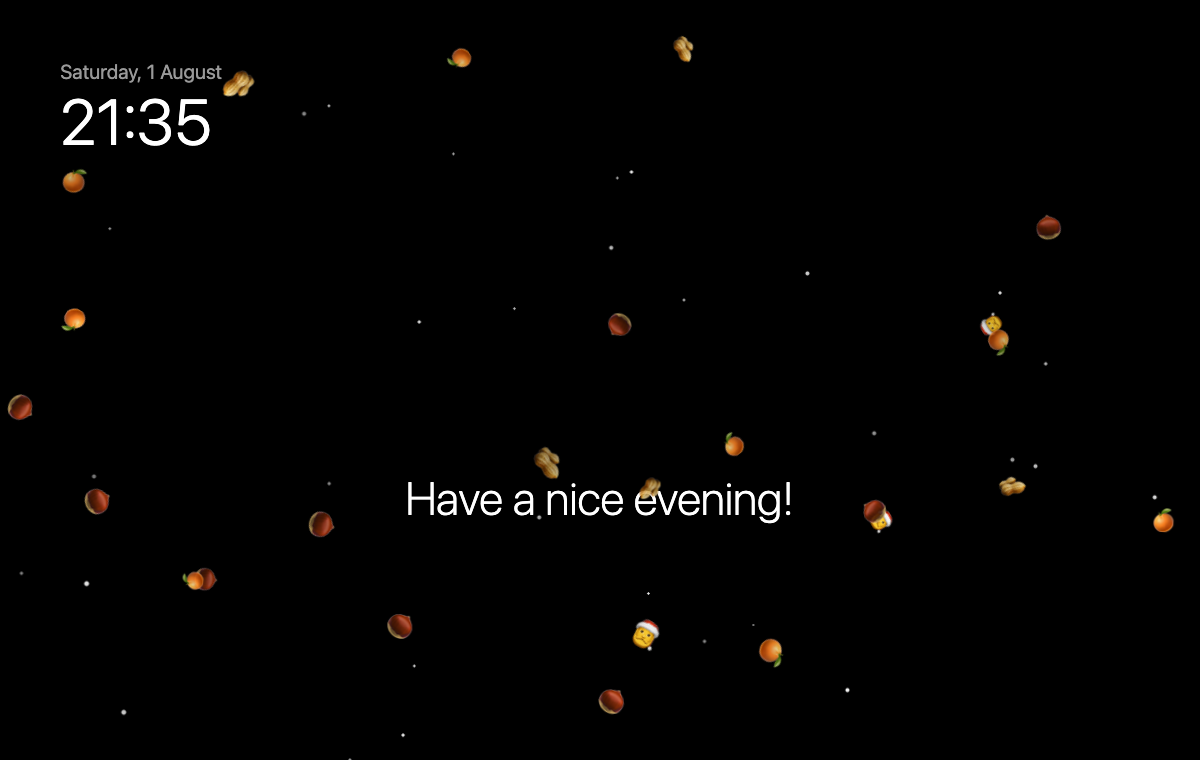
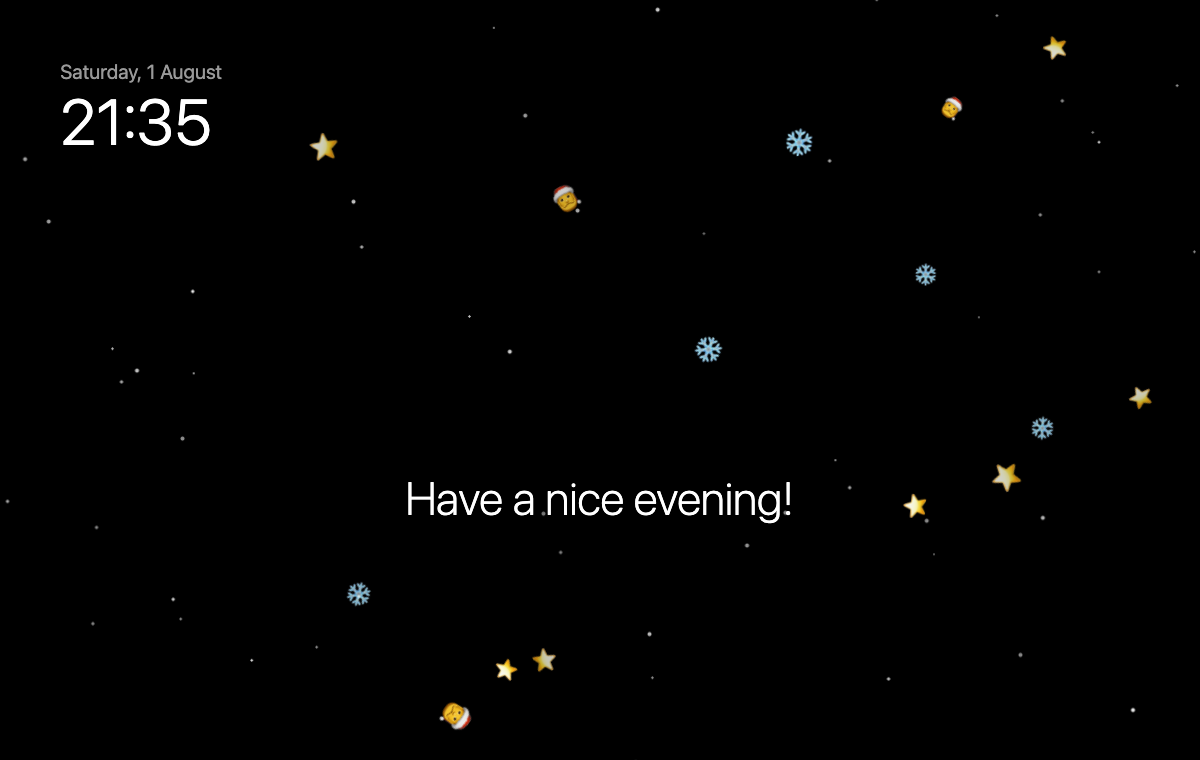
Samichlaus: hats instead of nuts
Red bishop's hats (mitres) with gold bands, a cross and ribbons rock
gently while they fall, with denser snow. New effect "mitres" for own
occasions; emoji style shows Samichlaus, snowflakes and stars.

diff --git a/effects.js b/effects.js
@@ -21,6 +21,7 @@
 		petals: { size: [12, 20], speed: [30, 65], colors: ["#ffc2d1", "#ffe5ec"] },
 		nuts: { size: [18, 26], speed: [45, 90], colors: ["#c58b4c", "#f39c3c", "#a66a33"] },
 		crowns: { size: [24, 36], speed: [35, 70], colors: ["#f2c94c"] },
+		mitres: { size: [34, 48], speed: [30, 55], colors: ["#c8102e", "#d42a2a", "#b5122b"] },
 		stars: { size: [10, 18], speed: [25, 55], colors: ["#fff1b8", "#ffd76a"] },
 		emoji: { size: [26, 42], speed: [35, 75] }
 	};
@@ -154,6 +155,41 @@
 			ctx.lineTo(0, s * 0.44);
 			ctx.stroke();
 		},
+		mitres(ctx, s, color) {
+			// Samichlaus' bishop's hat: tall and pointed, red with gold bands, a gold cross and two ribbons
+			const w = s * 0.3;
+			const top = -s * 0.5;
+			const base = s * 0.3;
+			const gold = "#f2c94c";
+			// ribbons hanging down at the back
+			ctx.fillStyle = color;
+			ctx.fillRect(-w * 0.75, base, w * 0.4, s * 0.2);
+			ctx.fillRect(w * 0.35, base, w * 0.4, s * 0.2);
+			ctx.fillStyle = gold;
+			ctx.fillRect(-w * 0.75, base + s * 0.16, w * 0.4, s * 0.04);
+			ctx.fillRect(w * 0.35, base + s * 0.16, w * 0.4, s * 0.04);
+			ctx.beginPath();
+			ctx.moveTo(-w, base);
+			ctx.lineTo(-w, -s * 0.05);
+			ctx.quadraticCurveTo(-w * 0.95, -s * 0.38, 0, top);
+			ctx.quadraticCurveTo(w * 0.95, -s * 0.38, w, -s * 0.05);
+			ctx.lineTo(w, base);
+			ctx.closePath();
+			ctx.fillStyle = color;
+			ctx.fill();
+			ctx.save();
+			ctx.clip();
+			ctx.fillStyle = gold;
+			ctx.fillRect(-w, base - s * 0.1, w * 2, s * 0.1);
+			ctx.fillRect(-s * 0.035, top, s * 0.07, base - top);
+			ctx.restore();
+			// cross on the front
+			const cy = -s * 0.14;
+			const a = s * 0.11;
+			ctx.fillStyle = gold;
+			ctx.fillRect(-a, cy - s * 0.03, a * 2, s * 0.06);
+			ctx.fillRect(-s * 0.03, cy - a, s * 0.06, a * 2);
+		},
 		crowns(ctx, s, color) {
 			ctx.fillStyle = color;
 			ctx.beginPath();
@@ -208,6 +244,9 @@
 			this.size = def.size.map((v) => v * (o.size || 1));
 			this.speed = def.speed.map((v) => v * (o.speed || 1));
 			this.spin = this.kind === "snow" || this.kind === "confetti" ? 0 : this.kind === "emoji" ? 0.6 : 1.4;
+			// hats only rock gently, they don't tumble
+			this.rock = this.kind === "mitres";
+			if (this.rock) this.spin = 0;
 			this.parts = Array.from({ length: o.count }, () => this.spawn(true));
 		}
 		spawn(anywhere) {
@@ -240,7 +279,8 @@
 					continue;
 				}
 				ctx.globalAlpha = p.alpha;
-				if (p.vr) {
+				if (this.rock) p.rot = Math.sin(t * 0.0013 + p.phase) * 0.3;
+				if (p.vr || this.rock) {
 					ctx.save();
 					ctx.translate(x, p.y);
 					ctx.rotate(p.rot);
@@ -491,7 +531,7 @@
 				if (occ.webs && occ.style !== "emoji") this.layers.push(new Webs(occ, this.env));
 				if (occ.shape === "bats" && occ.style !== "emoji") this.layers.push(new Bats(occ, this.env));
 				else this.layers.push(new Drift(occ, this.env));
-				if (occ.snow) this.layers.push(new Drift({ shape: "snow", motion: "fall", count: Math.round(occ.count * 1.2), style: "graphics" }, this.env));
+				if (occ.snow) this.layers.push(new Drift({ shape: "snow", motion: "fall", count: Math.max(50, Math.round(occ.count * 1.2)), style: "graphics" }, this.env));
 				if (occ.lights) this.layers.push(new Lights(occ, this.env));
 				if (occ.candles) this.layers.push(new Candles(occ, this.env));
 				if (occ.fireworks) this.layers.push(new Fireworks(occ, this.env));

diff --git a/occasions.js b/occasions.js
@@ -14,7 +14,7 @@
 
 	// Order = priority: the first active occasion is shown.
 	const BUILTIN = {
-		samichlaus: { from: "12-06", shape: "nuts", motion: "fall", count: 26, emojis: ["🎅", "🍊", "🥜", "🌰"], snow: true },
+		samichlaus: { from: "12-06", shape: "mitres", motion: "fall", count: 16, emojis: ["🎅", "❄", "⭐"], snow: true },
 		threekings: { from: "01-06", shape: "crowns", motion: "fall", count: 22, emojis: ["👑", "⭐", "✨"], colors: ["#f2c94c", "#e8b33a", "#fff1b8"] },
 		christmas: { from: "12-24", until: "12-26", shape: "snow", motion: "fall", count: 80, emojis: ["🎄", "⭐", "❄", "🎁"], lights: true },
 		newyear: { from: "12-31", until: "01-02", shape: "sparkles", motion: "fall", count: 60, emojis: ["🎆", "🎉", "🥂", "✨"], colors: ["#ffd76a", "#fff4c2", "#f6c343"], fireworks: true, fireworksHours: null },

diff --git a/README.md b/README.md
@@ -1,6 +1,6 @@
 # MMM-SwissOverlay
 
-Swiss holidays and seasons as a quiet full-screen overlay for [MagicMirror²](https://magicmirror.builders/): Swiss flags and fireworks on 1 August, Räppli at Fasnacht, nuts and mandarins for Samichlaus, Advent candles, and more. The dates move with the calendar (Easter, Fasnacht, Advent, Mother's Day are calculated every year), and **everything is configurable**: switch occasions off, change their dates, add your own (birthdays, anniversaries, your village's events).
+Swiss holidays and seasons as a quiet full-screen overlay for [MagicMirror²](https://magicmirror.builders/): Swiss flags and fireworks on 1 August, Räppli at Fasnacht, Samichlaus hats on 6 December, Advent candles, and more. The dates move with the calendar (Easter, Fasnacht, Advent, Mother's Day are calculated every year), and **everything is configurable**: switch occasions off, change their dates, add your own (birthdays, anniversaries, your village's events).
 
 It sits in `fullscreen_above`, never blocks clicks or touches, and runs no animation at all on days without an occasion.
 
@@ -8,7 +8,7 @@ It sits in `fullscreen_above`, never blocks clicks or touches, and runs no anima
 | :---: | :---: | :---: |
 | ![1 August](screenshots/bundesfeier.png) | ![Advent](screenshots/advent.png) | ![Halloween](screenshots/halloween.png) |
 | **Samichlaus (emoji style)** | **Fasnacht** | **Easter** |
-| ![Samichlaus](screenshots/samichlaus-emoji.png) | ![Fasnacht](screenshots/fasnacht.png) | ![Easter](screenshots/easter.png) |
+| ![Samichlaus](screenshots/samichlaus.png) | ![Fasnacht](screenshots/fasnacht.png) | ![Easter](screenshots/easter.png) |
 
 ## Occasions
 
@@ -21,7 +21,7 @@ It sits in `fullscreen_above`, never blocks clicks or touches, and runs no anima
 | Mother's Day | `mothersday` | 2nd Sunday in May | flower petals | |
 | Halloween | `halloween` | 24 … 31 October | bats | spider webs |
 | Advent | `advent` | 1st Advent … 23 December | snow | 1–4 candles, one per Advent Sunday |
-| Samichlaus | `samichlaus` | 6 December | nuts and mandarins | snow |
+| Samichlaus | `samichlaus` | 6 December | Samichlaus hats (mitres) | snow |
 | Christmas | `christmas` | 24 … 26 December | snow | string of lights |
 | New Year's Eve, New Year, Berchtoldstag | `newyear` | 31 December … 2 January | golden sparkles | fireworks |
 | Epiphany | `threekings` | 6 January | crowns | |
@@ -107,7 +107,7 @@ custom: [
 ]
 ```
 
-`effect` is one of `snow`, `confetti`, `sparkles`, `stars`, `flags`, `hearts`, `eggs`, `petals`, `nuts`, `crowns`; `direction: "up"` lets particles rise. Add `fireworks: true` for fireworks.
+`effect` is one of `snow`, `confetti`, `sparkles`, `stars`, `flags`, `hearts`, `eggs`, `petals`, `nuts`, `crowns`, `mitres`; `direction: "up"` lets particles rise. Add `fireworks: true` for fireworks.
 
 ### Writing dates
 

diff --git a/CHANGELOG.md b/CHANGELOG.md
@@ -2,6 +2,7 @@
 
 ## Unreleased
 
+- Samichlaus: red Samichlaus hats (mitres) that rock gently in the snow instead of nuts and mandarins; new effect `mitres` for own occasions. Emoji style: 🎅 ❄ ⭐.
 - `mm-manager.json`: all settings can be changed in a form in MagicMirror Manager (labels in German and English, a switch per occasion, dates, time of day, look, own occasions).
 
 ## 0.9.0 – 2026-10-18
